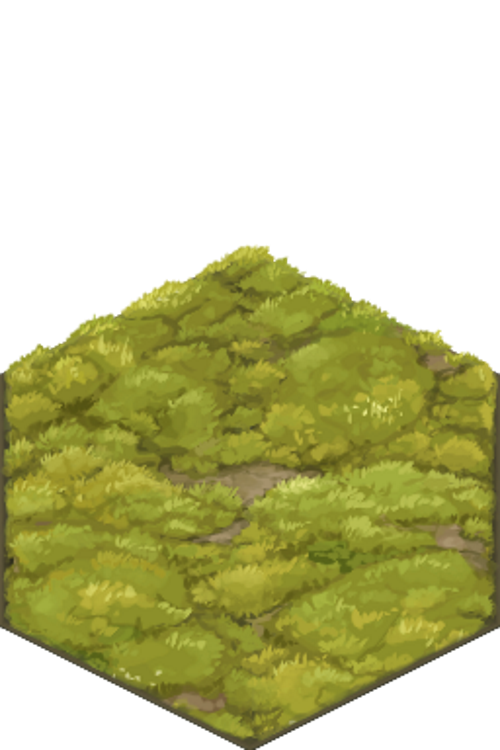
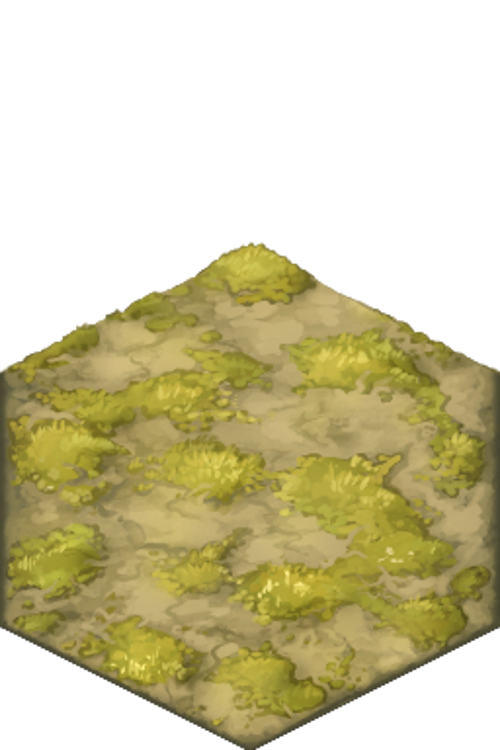
Swap grasslands and scrublands Adjust entity tooltips

diff --git a/Assets/Scripts/UI/UIHelper.cs b/Assets/Scripts/UI/UIHelper.cs
@@ -251,10 +251,8 @@ public static class UIHelper
 
     public static void CreateEntityTooltip(GameEntity entity, bool showEntity = true)
     {
-        string healthString = "Health: " + entity.GetCurHealth() + "/" + entity.GetMaxHealth();
-        string powerString = "Power: " + entity.GetPower();
-        string apString = "AP: " + entity.GetCurAP() + "/" + entity.GetMaxAP() + "(+" + entity.GetAPRegen() + "/turn)";
-        string descString = entity.GetDesc() + "\n" + healthString + "\n" + powerString + "\n" + apString;
+        string apString = "+" + entity.GetAPRegen() + " AP/turn";
+        string descString = entity.GetDesc() + apString;
 
         if (showEntity)
         {

diff --git a/Assets/Scripts/Gameplay/GameEntity.cs b/Assets/Scripts/Gameplay/GameEntity.cs
@@ -398,7 +398,13 @@ public abstract class GameEntity : GameElementBase, ITurns
 
     public string GetDesc()
     {
-        string descString = m_desc + m_keywordHolder.GetDesc() + "\n";
+        string descString = "";
+        if (m_desc != null && m_desc != "")
+        {
+            descString += m_desc + "\n\n";
+        }
+
+        descString += m_keywordHolder.GetDesc() + "\n\n";
 
         return descString;
     }
